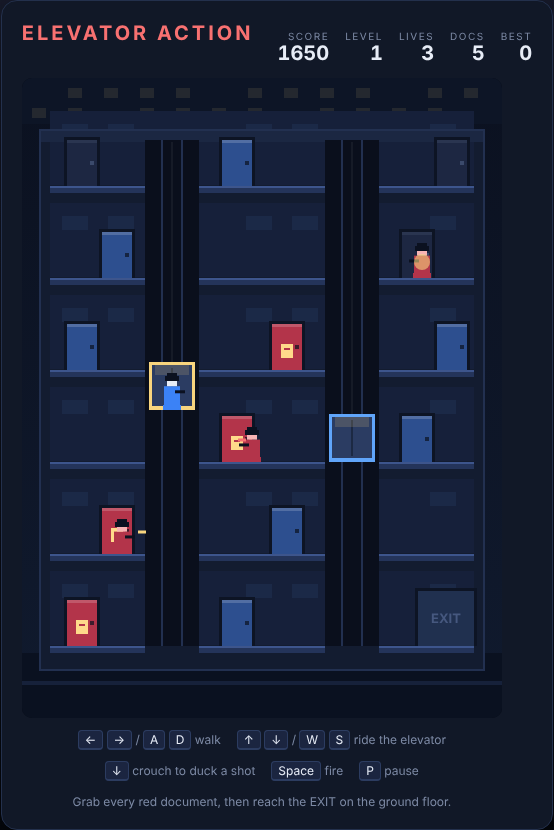
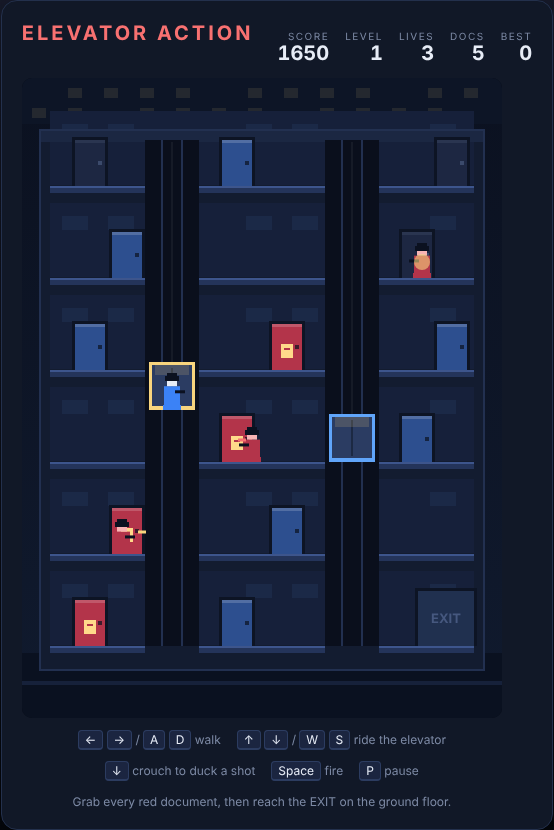
Make the elevators land on floors, and stop giving a document away
Playing the game in real time turned up two things the unit tests were
happy with but a player would not be:

- Releasing the ride keys left the car frozen wherever it happened to be.
  Since a floor is only "level" at exact equality, a car stopped by hand
  almost never lined up with one and the rider was stranded. The car now
  settles onto the nearest floor when let go, so landing is a question of
  timing rather than pixel accuracy, and the ride is a little quicker at
  about a floor a second.
- The player dropped in on top of a document door on the roof floor and
  banked 300 points before touching a key — which also made the fresh-run
  test depend on timing. The drop-in point and the two left-hand door
  positions moved apart, with tests that check no level opens with a free
  document.

Claude-Session: https://claude.ai/code/session_01PYggGeyvJMfPFGSvvTqfff

diff --git a/ElevatorAction/tests/elevator-action.spec.js b/ElevatorAction/tests/elevator-action.spec.js
@@ -180,12 +180,44 @@ test.describe('Elevator Action', () => {
                 level = 4;
                 lives = 1;
                 startGame();
+                autoRun = false;
             });
             expect(await page.evaluate(() => ({ score, level, lives }))).toEqual({
                 score: 0,
                 level: 1,
                 lives: 3,
             });
+        });
+
+        test('the player does not start on top of a document', async ({ page }) => {
+            await startFrozen(page);
+            const touching = await page.evaluate(() =>
+                doors.some(
+                    (d) =>
+                        d.type === 'document' &&
+                        d.floor === player.floor &&
+                        Math.abs(d.x - player.x) <= DOOR_W / 2 + PLAYER_W / 2
+                )
+            );
+            expect(touching).toBe(false);
+        });
+
+        test('no level hands out a document at the drop-in point', async ({ page }) => {
+            const freebies = await page.evaluate(() => {
+                const out = [];
+                for (let n = 1; n <= LEVEL_COUNT; n++) {
+                    buildLevel(n);
+                    if (docsRemaining() !== doors.filter((d) => d.type === 'document').length) {
+                        out.push(n);
+                    }
+                    for (const d of doors) {
+                        if (d.type !== 'document' || d.floor !== player.floor) continue;
+                        if (Math.abs(d.x - player.x) <= DOOR_W / 2 + PLAYER_W / 2) out.push(n);
+                    }
+                }
+                return out;
+            });
+            expect(freebies).toEqual([]);
         });
 
         test('the player starts on the top floor at the left', async ({ page }) => {
@@ -609,6 +641,50 @@ test.describe('Elevator Action', () => {
             await holdKeys(page, ['ArrowDown']);
             await stepSeconds(page, 6);
             expect((await playerState(page)).floor).toBe(await page.evaluate(() => FLOOR_COUNT - 1));
+        });
+
+        test('letting go settles the car on the nearest floor', async ({ page }) => {
+            await page.evaluate(() => {
+                elevators[0].y = floorY(2) + 20;
+                player.inCar = 0;
+                player.y = elevators[0].y;
+                player.x = elevators[0].x;
+                player.floor = -1;
+            });
+            await releaseKeys(page);
+            await stepSeconds(page, 2);
+            expect(await page.evaluate(() => elevators[0].y)).toBe(
+                await page.evaluate(() => floorY(2))
+            );
+            expect((await playerState(page)).floor).toBe(2);
+        });
+
+        test('a settling car picks the floor it is closest to', async ({ page }) => {
+            await page.evaluate(() => {
+                elevators[0].y = floorY(3) - 20;
+                player.inCar = 0;
+                player.y = elevators[0].y;
+                player.x = elevators[0].x;
+            });
+            await releaseKeys(page);
+            await stepSeconds(page, 2);
+            expect(await page.evaluate(() => elevators[0].y)).toBe(
+                await page.evaluate(() => floorY(3))
+            );
+        });
+
+        test('a settled car stays put', async ({ page }) => {
+            await page.evaluate(() => {
+                elevators[0].y = floorY(1);
+                player.inCar = 0;
+                player.y = elevators[0].y;
+                player.x = elevators[0].x;
+            });
+            await releaseKeys(page);
+            await stepSeconds(page, 2);
+            expect(await page.evaluate(() => elevators[0].y)).toBe(
+                await page.evaluate(() => floorY(1))
+            );
         });
 
         test('walking out of a car level with a floor leaves the car', async ({ page }) => {

diff --git a/ElevatorAction/game.js b/ElevatorAction/game.js
@@ -27,11 +27,11 @@ const ROOF_Y = FLOOR_TOP - 56;
 
 const SHAFT_XS = [150, 330];         // shaft centres
 const SHAFT_W = 54;
-const ELEVATOR_SPEED = 70;           // px/s while a rider holds up or down
+const ELEVATOR_SPEED = 95;           // px/s while a rider holds up or down — about a floor a second
 
 const DOOR_W = 30;
 const DOOR_H = 46;
-const DOOR_X = [60, 95, 215, 265, 395, 430];
+const DOOR_X = [68, 105, 215, 265, 395, 430];
 
 const EXIT_W = 56;
 const exitZone = { x: WALL_R - EXIT_W, w: EXIT_W, floor: FLOOR_COUNT - 1 };
@@ -92,6 +92,12 @@ function floorY(i) {
     return FLOOR_TOP + i * FLOOR_H;
 }
 
+// The floor a car at y is closest to — where it settles when let go.
+function nearestFloor(y) {
+    const i = Math.round((y - FLOOR_TOP) / FLOOR_H);
+    return Math.max(0, Math.min(FLOOR_COUNT - 1, i));
+}
+
 // Which floor a y sits exactly on, or -1 for a car between two floors.
 function floorAt(y) {
     for (let i = 0; i < FLOOR_COUNT; i++) {
@@ -136,9 +142,11 @@ function buildDoors(n) {
     return list;
 }
 
+// The player drops in at the left edge of the roof floor, clear of the
+// nearest door so a level never opens by handing out a free document.
 function makePlayer(invuln = 0) {
     return {
-        x: WALL_L + 24,
+        x: WALL_L + 8,
         y: floorY(0),
         floor: 0,
         dir: 1,
@@ -347,8 +355,18 @@ function walk(dx) {
 function rideCar(dt, k) {
     const car = elevators[player.inCar];
 
-    if (k.up) car.y = Math.max(floorY(0), car.y - ELEVATOR_SPEED * dt);
-    else if (k.down) car.y = Math.min(floorY(FLOOR_COUNT - 1), car.y + ELEVATOR_SPEED * dt);
+    const travel = ELEVATOR_SPEED * dt;
+    if (k.up) {
+        car.y = Math.max(floorY(0), car.y - travel);
+    } else if (k.down) {
+        car.y = Math.min(floorY(FLOOR_COUNT - 1), car.y + travel);
+    } else {
+        // Let go of the controls and the car settles on the nearest floor, so
+        // lining up with a landing is a matter of timing, not pixel accuracy.
+        const target = floorY(nearestFloor(car.y));
+        const gap = target - car.y;
+        car.y = Math.abs(gap) <= travel ? target : car.y + Math.sign(gap) * travel;
+    }
 
     player.x = car.x;
     player.y = car.y;

diff --git a/ElevatorAction/DESIGN.md b/ElevatorAction/DESIGN.md
@@ -35,7 +35,10 @@ except where a shaft crosses it:
 - When the car **is** level with the floor, you walk straight in and are now
   riding it (`player.inCar` is the shaft index).
 - While riding, `↑`/`↓` drive the car between the top and bottom floors at
-  `ELEVATOR_SPEED` px/s. The car carries you with it.
+  `ELEVATOR_SPEED` px/s — about a floor a second. The car carries you with it.
+- Let go of both and the car settles onto the nearest floor at the same speed.
+  Stopping at a landing is therefore a matter of timing rather than pixel
+  accuracy, and a car can never be abandoned halfway up a shaft.
 - Walking left or right while the car is level with a floor steps you back out
   onto that floor.
 
